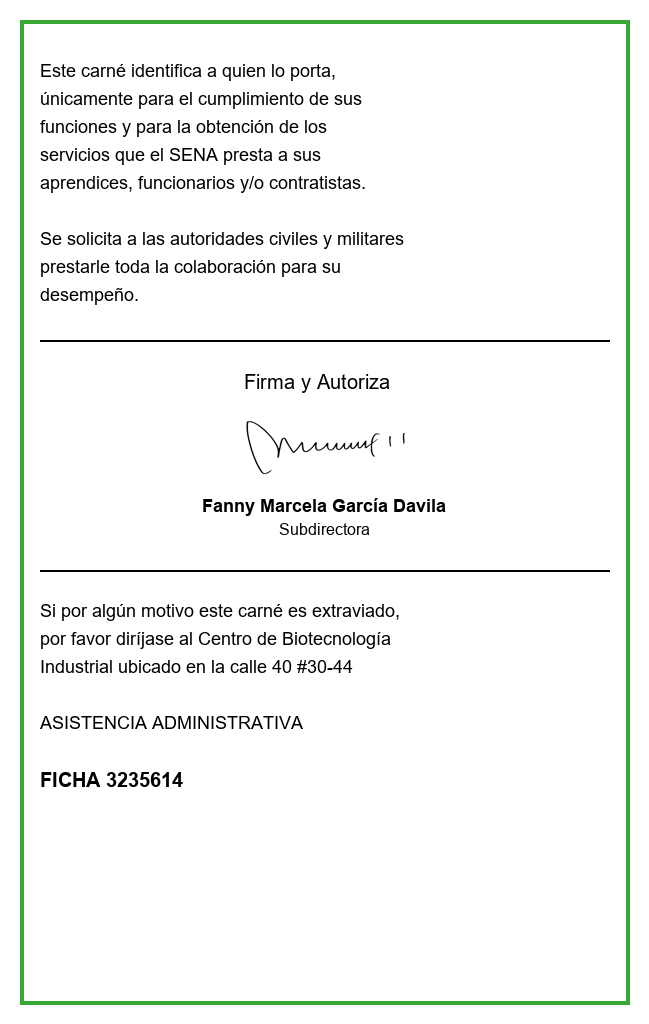
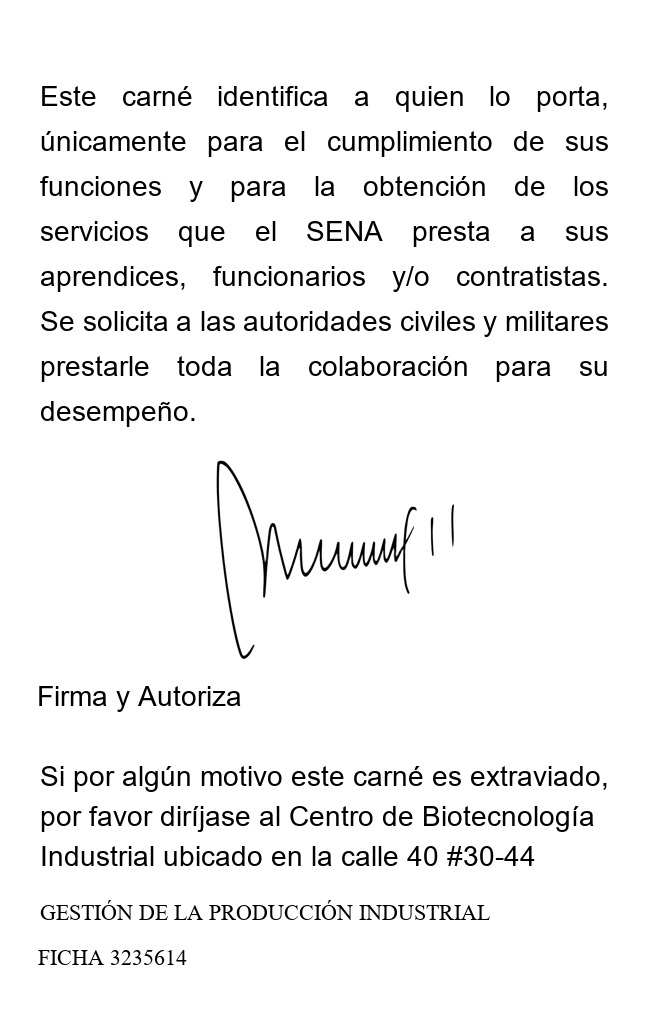
modificacion del diseño en parte de atras del carnet

diff --git a/imagen.py b/imagen.py
@@ -126,8 +126,8 @@ def generar_carnet(empleado, ruta_qr):
     # CÓDIGO QR
     try:
         qr = Image.open(ruta_qr).convert("RGB")
-        qr = qr.resize((370, 370))
-        img.paste(qr, (260, 470))
+        qr = qr.resize((330, 330))
+        img.paste(qr, (300, 460))
     except:
         draw.rectangle([(320, 430), (620, 730)], outline=(0, 0, 0), width=2)
         draw.text((420, 570), "QR CODE", fill=(0, 0, 0), font=font_footer)
@@ -217,78 +217,85 @@ def generar_carnet(empleado, ruta_qr):
     
     # ========== SECCIÓN INFERIOR DEL REVERSO ==========
     
-    # FIRMA
-    firma_y = alto - 300
-    
-    # TEXTO "FIRMA Y AUTORIZA" CENTRADO
-    try:
-        font_firma_titulo = ImageFont.truetype("cambria.ttf", 22)
-    except:
-        font_firma_titulo = font_reverso
-    
-    firma_texto_y = firma_y - 50
-    texto_firma = "Firma y Autoriza"
-    bbox_firma = draw_reverso.textbbox((0, 0), texto_firma, font=font_firma_titulo)
-    ancho_firma = bbox_firma[2] - bbox_firma[0]
-    pos_x_firma = (ancho - ancho_firma) // 2
-    draw_reverso.text((pos_x_firma, firma_texto_y), texto_firma, fill=(0, 0, 0), font=font_firma_titulo)
-    
-    # IMAGEN DE FIRMA CENTRADA
+   # FIRMA
+    firma_y = alto - 100
+
+# IMAGEN DE FIRMA CENTRADA (PRIMERO)
+    firma_img_y = 400  # Cambiar este número para subir/bajar la firma
+    firma_img_x = (ancho - 100) // 3  # Centrada, o cambiar para mover izq/der
     try:
         ruta_firma = os.path.join("static", "fotos", "firma_directora.png")
         if os.path.exists(ruta_firma):
             firma_img = Image.open(ruta_firma).convert("RGBA")
-            firma_img = firma_img.resize((200, 100))
-            pos_firma_x = (ancho - 200) // 2
-            pos_firma_y = firma_texto_y + 35
-            reverso.paste(firma_img, (pos_firma_x, pos_firma_y), firma_img)
+            firma_img = firma_img.resize((300, 300))
+            reverso.paste(firma_img, (firma_img_x, firma_img_y), firma_img)
     except:
         pass
-    
-    # TEXTO SOBRE CARNÉ EXTRAVIADO (CENTRADO)
+
+# TEXTO "FIRMA Y AUTORIZA" DEBAJO DE LA FIRMA
+    texto_firma_y = 920  # Cambiar este número para subir/bajar el texto
+
     try:
-        font_extraviado = ImageFont.truetype("cambria.ttf", 20)
+        font_firma_titulo = ImageFont.truetype("cambria.ttf", 22)
     except:
-        font_extraviado = font_fecha
+        font_firma_titulo = font_reverso
+
+    firma_texto_y = firma_img_y + 280  # Debajo de la imagen
+    texto_firma = "Firma y Autoriza"
+    bbox_firma = draw_reverso.textbbox((0, 0), texto_firma, font=font_firma_titulo)
+    ancho_firma = bbox_firma[2] - bbox_firma[0]
+    pos_x_firma = (ancho - ancho_firma) // 12
+    draw_reverso.text((pos_x_firma, firma_texto_y), texto_firma, fill=(0, 0, 0), font=font_firma_titulo)
     
-    info_y = firma_texto_y + 150
+    # ===== TEXTO SOBRE CARNÉ EXTRAVIADO - ALINEADO A LA IZQUIERDA =====
+    # Mismo tamaño que el texto de arriba (28pt)
+    try:
+        font_extraviado = ImageFont.truetype("cambria.ttf", 22)  # Mismo tamaño que arriba
+    except:
+        font_extraviado = font_reverso
+
+    # Posición inicial (izquierda)
+    margen_izquierdo_extraviado = 40  #  CAMBIAR este número para mover más izq/der
+    info_y = 760  #  CAMBIAR este número para subir/bajar todo el bloque
+
     texto_extraviado = [
         "Si por algún motivo este carné es extraviado,",
         "por favor diríjase al Centro de Biotecnología",
         "Industrial ubicado en la calle 40 #30-44"
     ]
-    
+
+# Dibujar cada línea alineada a la izquierda
+    separacion_lineas_extraviado = 40  #  CAMBIAR para más/menos espacio entre líneas
+
     for i, linea in enumerate(texto_extraviado):
-        bbox_linea = draw_reverso.textbbox((0, 0), linea, font=font_extraviado)
-        ancho_linea = bbox_linea[2] - bbox_linea[0]
-        pos_x_linea = (ancho - ancho_linea) // 2
-        draw_reverso.text((pos_x_linea, info_y + (i * 25)), linea, fill=(0, 0, 0), font=font_extraviado)
-    
-    # NOMBRE DEL PROGRAMA (CENTRADO)
+        draw_reverso.text((margen_izquierdo_extraviado, info_y + (i * separacion_lineas_extraviado)), 
+                        linea, fill=(0, 0, 0), font=font_extraviado)
+        
+    # ===== NOMBRE DEL PROGRAMA (POSICIÓN INDEPENDIENTE) =====
+    programa_x = 40  #  CAMBIAR para mover izquierda/derecha
+    programa_y = 900  #  CAMBIAR para mover arriba/abajo
     nombre_programa = empleado.get('nombre_programa', 'Programa Técnico')
-    programa_y = info_y + 100
+
     try:
-        font_programa_bold = ImageFont.truetype("arialbd.ttf", 20)
+        font_programa_bold = ImageFont.truetype("times.ttf", 22)
     except:
         font_programa_bold = font_programa
-    
-    bbox_programa = draw_reverso.textbbox((0, 0), nombre_programa, font=font_programa_bold)
-    ancho_programa = bbox_programa[2] - bbox_programa[0]
-    pos_x_programa = (ancho - ancho_programa) // 2
-    draw_reverso.text((pos_x_programa, programa_y), nombre_programa, fill=(0, 0, 0), font=font_programa_bold)
+
+    draw_reverso.text((programa_x, programa_y), nombre_programa, fill=(0, 0, 0), font=font_programa_bold)
+
     
     # FICHA (CENTRADO Y NEGRILLA)
     codigo_ficha = empleado.get('codigo_ficha', '0000')
-    ficha_y = programa_y + 35
+    ficha_y = programa_y + 45
     ficha_text = f"FICHA {codigo_ficha}"
     try:
-        font_ficha = ImageFont.truetype("arialbd.ttf", 20)
+        font_ficha = ImageFont.truetype("times.ttf", 22)
     except:
         font_ficha = font_programa
     
     bbox_ficha = draw_reverso.textbbox((0, 0), ficha_text, font=font_ficha)
     ancho_ficha = bbox_ficha[2] - bbox_ficha[0]
-    pos_x_ficha = (ancho - ancho_ficha) // 2
+    pos_x_ficha = (ancho - ancho_ficha) // 13
     draw_reverso.text((pos_x_ficha, ficha_y), ficha_text, fill=(0, 0, 0), font=font_ficha)
 
     ruta_reverso = os.path.join("static", "carnets", f"reverso_{empleado['cedula']}.png")
